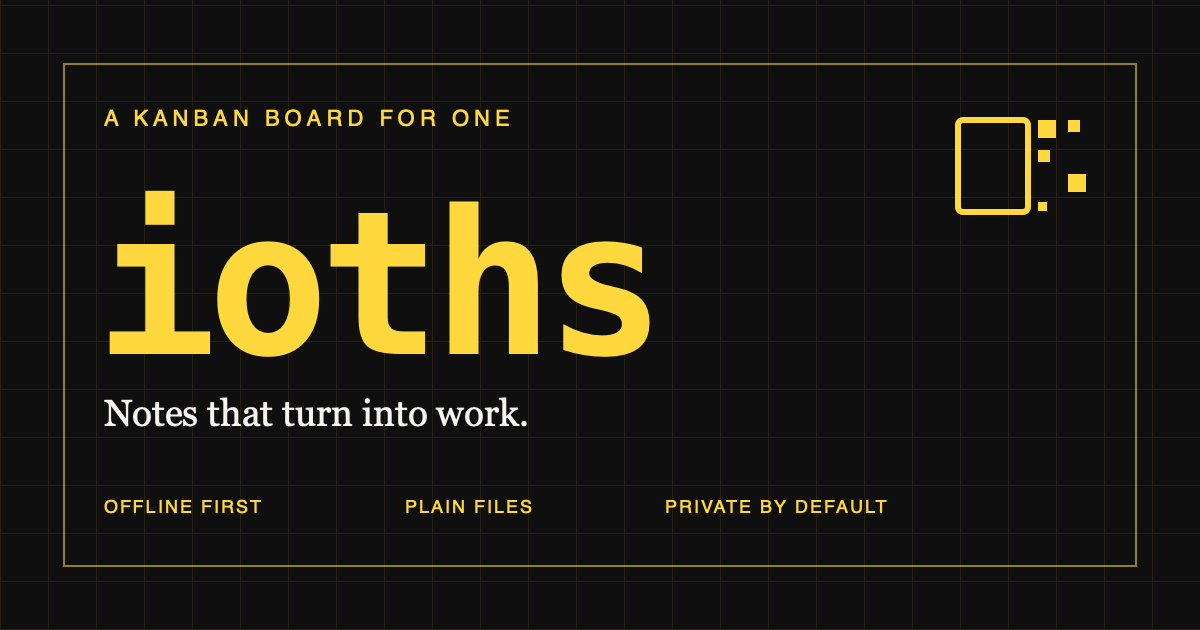
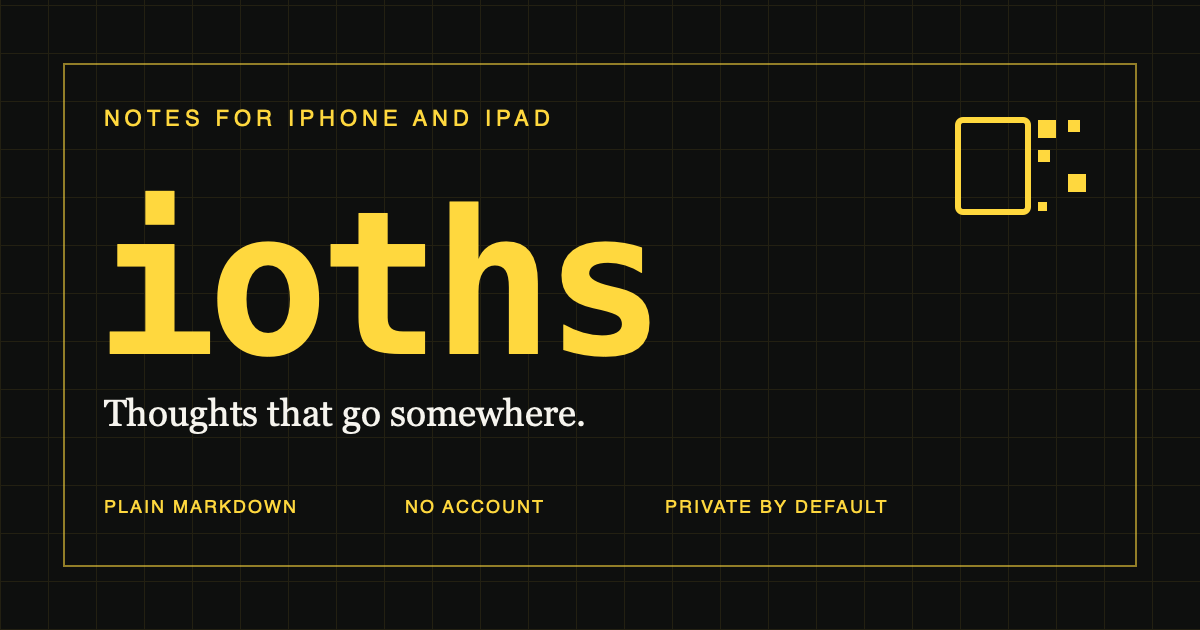
Align landing page with the app's new welcome screen
The app's first launch now says "Thoughts that go somewhere." instead of
positioning the app as a kanban board, and the landing page follows.

- Headline: "Thoughts that go somewhere." (was "Notes that turn into work.")
- Label: "Markdown notes for iPhone and iPad" (was "A kanban board for one,
  in Markdown"), which says what the product is to a visitor who arrives
  knowing nothing
- Nav tagline and lead lead with plain Markdown notes; the kanban board stays
  as a feature, lowercase, and consistent with the App Store subtitle
- Title, description, Open Graph, Twitter and JSON-LD updated to match
- Social card re-rendered with the new headline and the app's facts line

The marketing locale catalog is re-synced; the draft locales pick up the changed
lines on their next translation pass.

diff --git a/index.html b/index.html
@@ -4,8 +4,8 @@
   <meta charset="UTF-8">
   <meta name="viewport" content="width=device-width, initial-scale=1.0">
   <script>document.documentElement.classList.add('js');</script>
-  <title>ioths — Notes that turn into work</title>
-  <meta name="description" content="Notes that turn into work, on iPhone and iPad. A checklist in a note becomes a task on a kanban board for one, in plain Markdown files. Offline, no account.">
+  <title>ioths — Thoughts that go somewhere</title>
+  <meta name="description" content="Thoughts that go somewhere, on iPhone and iPad. Write in plain Markdown; add a checklist and the note shows up in Tasks and on a kanban board built for one. Offline, no account.">
   <meta name="robots" content="index, follow, max-image-preview:large, max-snippet:-1, max-video-preview:-1">
   <meta name="author" content="Bedrock Rebellion">
   <meta name="theme-color" content="#ffffff">
@@ -16,23 +16,23 @@
   <meta property="og:type" content="website">
   <meta property="og:url" content="https://ioths.bedrockrebel.app/">
   <meta property="og:site_name" content="ioths">
-  <meta property="og:title" content="ioths — Notes that turn into work">
-  <meta property="og:description" content="Notes that turn into work, on iPhone and iPad. A checklist in a note becomes a task on a kanban board for one, in plain Markdown files. Offline, no account.">
+  <meta property="og:title" content="ioths — Thoughts that go somewhere">
+  <meta property="og:description" content="Thoughts that go somewhere, on iPhone and iPad. Write in plain Markdown; add a checklist and the note shows up in Tasks and on a kanban board built for one. Offline, no account.">
   <meta property="og:image" content="https://ioths.bedrockrebel.app/assets/marketing/social-card.png">
   <meta property="og:image:type" content="image/png">
   <meta property="og:image:width" content="1200">
   <meta property="og:image:height" content="630">
-  <meta property="og:image:alt" content="ioths: notes that turn into work. A kanban board for one, with offline-first plain files that are private by default.">
+  <meta property="og:image:alt" content="ioths: thoughts that go somewhere. Plain Markdown notes for iPhone and iPad, with no account and private by default.">
   <meta name="twitter:card" content="summary_large_image">
-  <meta name="twitter:title" content="ioths — Notes that turn into work">
-  <meta name="twitter:description" content="Notes that turn into work, on iPhone and iPad. A checklist in a note becomes a task on a kanban board for one, in plain Markdown files. Offline, no account.">
+  <meta name="twitter:title" content="ioths — Thoughts that go somewhere">
+  <meta name="twitter:description" content="Thoughts that go somewhere, on iPhone and iPad. Write in plain Markdown; add a checklist and the note shows up in Tasks and on a kanban board built for one. Offline, no account.">
   <meta name="twitter:image" content="https://ioths.bedrockrebel.app/assets/marketing/social-card.png">
-  <meta name="twitter:image:alt" content="ioths: notes that turn into work. A kanban board for one, with offline-first plain files that are private by default.">
+  <meta name="twitter:image:alt" content="ioths: thoughts that go somewhere. Plain Markdown notes for iPhone and iPad, with no account and private by default.">
   <script type="application/ld+json">
     {"@context":"https://schema.org","@graph":[
-      {"@type":"WebSite","@id":"https://ioths.bedrockrebel.app/#website","url":"https://ioths.bedrockrebel.app/","name":"ioths","alternateName":["IOTHS","ioths.bedrockrebel.app"],"description":"Notes that turn into work, on iPhone and iPad. A checklist in a note becomes a task on a kanban board for one, in plain Markdown files. Offline, no account.","about":[{"@type":"Thing","name":"Complexity theory"},{"@type":"Thing","name":"Conway's Game of Life"},{"@type":"Thing","name":"Complex adaptive systems"}],"publisher":{"@id":"https://bedrockrebel.app/#organization"},"inLanguage":"en"},
+      {"@type":"WebSite","@id":"https://ioths.bedrockrebel.app/#website","url":"https://ioths.bedrockrebel.app/","name":"ioths","alternateName":["IOTHS","ioths.bedrockrebel.app"],"description":"Thoughts that go somewhere, on iPhone and iPad. Write in plain Markdown; add a checklist and the note shows up in Tasks and on a kanban board built for one. Offline, no account.","about":[{"@type":"Thing","name":"Complexity theory"},{"@type":"Thing","name":"Conway's Game of Life"},{"@type":"Thing","name":"Complex adaptive systems"}],"publisher":{"@id":"https://bedrockrebel.app/#organization"},"inLanguage":"en"},
       {"@type":"WebPage","@id":"https://ioths.bedrockrebel.app/#webpage","url":"https://ioths.bedrockrebel.app/","name":"ioths","isPartOf":{"@id":"https://ioths.bedrockrebel.app/#website"},"mainEntity":{"@id":"https://ioths.bedrockrebel.app/#app"},"primaryImageOfPage":{"@type":"ImageObject","url":"https://ioths.bedrockrebel.app/assets/marketing/social-card.png","width":1200,"height":630},"inLanguage":"en"},
-      {"@type":"SoftwareApplication","@id":"https://ioths.bedrockrebel.app/#app","name":"ioths","url":"https://ioths.bedrockrebel.app/","description":"An offline app for iPhone and iPad in which a checklist inside a note becomes a task on a kanban board built for one person, with a work-in-progress limit. Notes are plain Markdown files in a format Obsidian can read.","applicationCategory":"ProductivityApplication","operatingSystem":["iOS 18.0 or later","iPadOS 18.0 or later"],"image":"https://ioths.bedrockrebel.app/assets/marketing/social-card.png","screenshot":["https://ioths.bedrockrebel.app/assets/marketing/library-744.png","https://ioths.bedrockrebel.app/assets/marketing/kanban-744.png","https://ioths.bedrockrebel.app/assets/marketing/natural-note-744.png","https://ioths.bedrockrebel.app/assets/marketing/raw-markdown-744.png","https://ioths.bedrockrebel.app/assets/marketing/storage-744.png"],"featureList":["Offline-first note capture and editing","Portable Markdown files with YAML frontmatter","Checklist tasks and a kanban board with a work-in-progress limit","On-device PDF-to-Markdown conversion","Optional Files-folder, GitHub, GitLab, and OneDrive storage"],"downloadUrl":"https://apps.apple.com/app/id6787224776","installUrl":"https://apps.apple.com/app/id6787224776","sameAs":"https://apps.apple.com/app/id6787224776","mainEntityOfPage":{"@id":"https://ioths.bedrockrebel.app/#webpage"},"softwareHelp":"https://ioths.bedrockrebel.app/support","offers":{"@type":"Offer","price":0,"url":"https://apps.apple.com/app/id6787224776"},"author":{"@id":"https://bedrockrebel.app/#organization"},"publisher":{"@id":"https://bedrockrebel.app/#organization"}},
+      {"@type":"SoftwareApplication","@id":"https://ioths.bedrockrebel.app/#app","name":"ioths","url":"https://ioths.bedrockrebel.app/","description":"An offline notes app for iPhone and iPad. Notes are plain Markdown files in a format Obsidian can read; a checklist inside a note puts it in Tasks and on a kanban board built for one person, with a work-in-progress limit.","applicationCategory":"ProductivityApplication","operatingSystem":["iOS 18.0 or later","iPadOS 18.0 or later"],"image":"https://ioths.bedrockrebel.app/assets/marketing/social-card.png","screenshot":["https://ioths.bedrockrebel.app/assets/marketing/library-744.png","https://ioths.bedrockrebel.app/assets/marketing/kanban-744.png","https://ioths.bedrockrebel.app/assets/marketing/natural-note-744.png","https://ioths.bedrockrebel.app/assets/marketing/raw-markdown-744.png","https://ioths.bedrockrebel.app/assets/marketing/storage-744.png"],"featureList":["Offline-first note capture and editing","Portable Markdown files with YAML frontmatter","Checklist tasks and a kanban board with a work-in-progress limit","On-device PDF-to-Markdown conversion","Optional Files-folder, GitHub, GitLab, and OneDrive storage"],"downloadUrl":"https://apps.apple.com/app/id6787224776","installUrl":"https://apps.apple.com/app/id6787224776","sameAs":"https://apps.apple.com/app/id6787224776","mainEntityOfPage":{"@id":"https://ioths.bedrockrebel.app/#webpage"},"softwareHelp":"https://ioths.bedrockrebel.app/support","offers":{"@type":"Offer","price":0,"url":"https://apps.apple.com/app/id6787224776"},"author":{"@id":"https://bedrockrebel.app/#organization"},"publisher":{"@id":"https://bedrockrebel.app/#organization"}},
       {"@type":"Organization","@id":"https://bedrockrebel.app/#organization","name":"Bedrock Rebellion","url":"https://bedrockrebel.app/"}
     ]}
   </script>
@@ -52,7 +52,7 @@
     <div class="journal-wrap journal-masthead">
       <div class="journal-brand">
         <a class="journal-wordmark" href="/" aria-label="ioths home"><img class="journal-app-icon" src="/icon-why-240.png" alt="" width="48" height="48" decoding="async">ioths</a>
-        <span class="journal-label journal-tagline">Tasks inside your notes,<br>on a board for one</span>
+        <span class="journal-label journal-tagline">Plain Markdown notes,<br>private by default</span>
       </div>
       <nav aria-label="Page sections"><a href="#difference">Difference</a><a href="#practice">Practice</a><a href="#about">About</a><a class="journal-nav-cta" href="https://apps.apple.com/app/id6787224776" target="_blank" rel="noopener noreferrer">App Store <span aria-hidden="true">↗</span></a></nav>
     </div>
@@ -60,9 +60,9 @@
   <main id="main" class="journal-main journal-wrap">
     <section class="journal-hero" aria-labelledby="title">
       <div>
-        <p class="journal-label journal-accent">A kanban board for one, in Markdown</p>
-        <h1 id="title">Notes that turn into <em>work.</em></h1>
-        <p class="journal-lead">ioths keeps the task inside the note. Add a checklist and the note appears on a kanban board built for one person, with a limit you set on how much can be in progress. Every note is a plain Markdown file on your device, in the same format Obsidian uses.</p>
+        <p class="journal-label journal-accent">Markdown notes for iPhone and iPad</p>
+        <h1 id="title">Thoughts that go <em>somewhere.</em></h1>
+        <p class="journal-lead">Write anything. When a note needs a next step, add a checklist: it shows up in Tasks and on a kanban board built for one person, with a limit you set on how much can be in progress. Every note is a plain Markdown file on your device, in the same format Obsidian uses.</p>
         <div class="journal-download">
           <a class="app-store-badge" href="https://apps.apple.com/app/id6787224776" target="_blank" rel="noopener noreferrer" aria-label="Download ioths on the App Store"><img src="/assets/marketing/download-on-the-app-store.svg" alt="Download on the App Store" width="144" height="48"></a>
           <p class="journal-footnote">For iPhone and iPad.<br>No ioths account required.</p>
